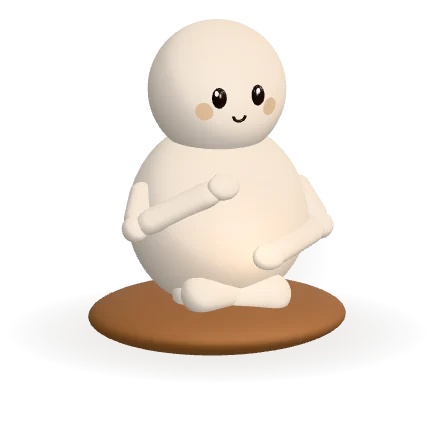
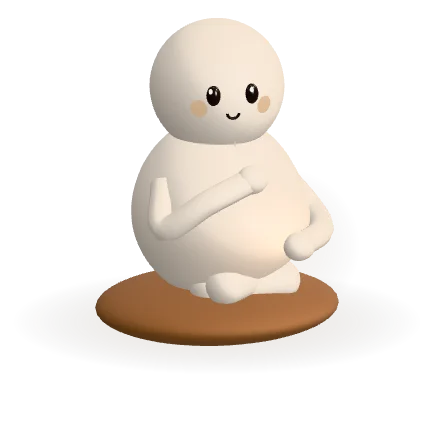
design-v2 hero: site-critic round 1 fixes for "Breathe with me"
Figure: seen about 40 degrees off its front (head turned to the viewer) so the belly's
push shows in the outline; belly travel about doubled; arms are single smooth tubes
through shoulder, elbow, round the belly and hand (no knobbly joints, no forearm
sinking); arms, hands and legs draw after the glow so the belly hand stays crisp.
Reduced motion keeps the shape still but lets the light breathe while the pacer runs.

Pacer v3: the first inhale rises from the idle level (no dip on Begin); a 5.5 s step
counts 5, 4, 3, 2, 1.

Layout: one grid for the headline halves, the figure and the sell. The pacer is one
unit (pill, track, patterns); the pill is an outline so the App Store button is the
one gold fill; the description line is gone. 1200 px and up put the sell under "INTO
THE BODY", phones keep the pacer together and let "INTO THE BODY" lead into the sell.
web-3d check now 0 FAIL at 1440 and 390. DESIGN.md updated. Not pushed.

diff --git a/site/js/figure-v1.js b/site/js/figure-v1.js
@@ -1,5 +1,6 @@
 /* "Breathe with me": an original round figure sitting cross-legged on a cushion, built from primitives.
-   breath-figure-v1.js drives it from the hero pacer: update(dt, fill, still, phase).
+   breath-figure-v1.js drives it from the hero pacer: update(dt, fill, still, phase, light). `light` (default: fill)
+   sets only the glow, so under reduced motion the shape can hold still while the light still follows the breath.
    One hand rests on the chest and stays nearly still, the other rides the belly: the coaching cue for breathing
    low (diaphragm), not high (chest). The belly pushes forward on the inhale and draws in past rest on the exhale;
    a round orb glows from inside it as the lungs fill, fades back to bone on the way out, then darkens a little when empty.
@@ -10,7 +11,7 @@ import { mergeVertices } from 'three/addons/utils/BufferGeometryUtils.js';
 
 const Z = new THREE.Vector3(0, 0, 1), UP = new THREE.Vector3(0, 1, 0);
 const HEAD_R = 0.56, BELLY_Y = 1.0, RAD = [0.72, 0.72 * 1.06, 0.72 * 0.92];
-const OUT = -0.09, IN = 0.2; // belly travel: drawn in at the bottom of the exhale .. full at the top of the inhale
+const OUT = -0.12, IN = 0.32; // belly travel: drawn in at the bottom of the exhale .. full at the top of the inhale
 const ORB = new THREE.Vector3(0, -0.2, 1).normalize(); // where the belly glows from: the front, a little below centre
 const smooth = (a, b, x) => { const t = Math.min(1, Math.max(0, (x - a) / (b - a))); return t * t * (3 - 2 * t); };
 
@@ -29,47 +30,49 @@ export function buildBreather(colors = {}) {
   root.add(body);
   const belly = makeBelly(c.body, c.inhale, c.glow);
   body.add(belly.mesh);
-  // The orb's halo: soft light that spills past the belly's outline on the inhale. Drawn last and on top (no depth
-  // test): with depth on, the curve of the belly hid part of the flat sprite and left a dark hole in the glow. Light
-  // washing over the hands is what real light would do anyway.
+  // The orb's halo: soft light that spills past the belly's outline on the inhale. Drawn without depth test (with it,
+  // the belly's curve hid part of the flat sprite and left a dark hole in the glow), then the arms, hands and legs are
+  // drawn after it (limbs below), so the hand on the belly stays a clear shape in front of the light.
   const halo = new THREE.Sprite(new THREE.SpriteMaterial({ map: radialTexture(c.glow), transparent: true, depthWrite: false,
     depthTest: false, blending: THREE.AdditiveBlending, opacity: 0, toneMapped: false }));
   halo.scale.setScalar(1.3);
   halo.renderOrder = 10;
   body.add(halo);
+  const limbs = skin.clone(); // same look, drawn in the late pass after the halo (renderOrder 11)
+  limbs.transparent = true;
+  const late = (mesh) => { mesh.renderOrder = 11; return mesh; };
   for (const side of [-1, 1]) { // crossed legs, one resting on the other
-    const leg = new THREE.Mesh(new THREE.CapsuleGeometry(0.17, 0.62, 8, 16), skin);
+    const leg = late(new THREE.Mesh(new THREE.CapsuleGeometry(0.17, 0.62, 8, 16), limbs));
     leg.rotation.set(0, side * 0.34, Math.PI / 2);
     leg.position.set(0, side < 0 ? 0.42 : 0.47, 0.36);
     body.add(leg);
   }
 
-  // The figure's left hand on the chest, right hand on the belly. Each arm bends at an elbow that rests on the
-  // body's side, so it wraps around the round body instead of cutting through it. Re-aimed every frame.
+  // The figure's left hand on the chest, right hand on the belly. Each arm is one smooth tube through shoulder, elbow
+  // (on the body's side), a point halfway round the belly, and the hand, rebuilt every frame so it follows the belly
+  // as it grows instead of sinking into it. No separate segments, so no knobbly joints. Open ends hide inside the
+  // body and inside the round hand.
   const hands = [
-    { shoulder: new THREE.Vector3(-0.62, 1.3, 0.02), elbowDir: new THREE.Vector3(-0.95, 0, 0.32).normalize(), dir: new THREE.Vector3(-0.22, 0.5, 0.84).normalize() },
-    { shoulder: new THREE.Vector3(0.62, 1.26, 0.02), elbowDir: new THREE.Vector3(0.95, -0.12, 0.3).normalize(), dir: new THREE.Vector3(0.2, -0.22, 0.95).normalize() },
+    { shoulder: new THREE.Vector3(-0.6, 1.3, 0.02), elbowDir: new THREE.Vector3(-0.95, 0, 0.32).normalize(), dir: new THREE.Vector3(-0.22, 0.5, 0.84).normalize() },
+    { shoulder: new THREE.Vector3(0.6, 1.26, 0.02), elbowDir: new THREE.Vector3(0.95, -0.12, 0.3).normalize(), dir: new THREE.Vector3(0.2, -0.22, 0.95).normalize() },
   ].map((h) => {
-    h.upper = new THREE.Mesh(new THREE.CapsuleGeometry(0.11, 0.3, 8, 16), skin);
-    h.fore = new THREE.Mesh(new THREE.CapsuleGeometry(0.105, 0.3, 8, 16), skin);
-    h.elbow = new THREE.Mesh(new THREE.SphereGeometry(0.11, 16, 12), skin);
-    h.palm = new THREE.Mesh(new THREE.SphereGeometry(0.13, 20, 14), skin);
-    h.palm.scale.set(1.05, 0.85, 0.62); // flat against the body
-    body.add(h.upper, h.fore, h.elbow, h.palm);
+    h.midDir = h.elbowDir.clone().add(h.dir).normalize();
+    h.elbow = new THREE.Vector3();
+    h.mid = new THREE.Vector3();
+    h.palm = late(new THREE.Mesh(new THREE.SphereGeometry(0.13, 20, 14), limbs));
+    h.palm.scale.set(1.12, 0.94, 0.86); // a soft mitten resting on the body
+    h.curve = new THREE.CatmullRomCurve3([h.shoulder, h.elbow, h.mid, h.palm.position], false, 'centripetal');
+    h.arm = late(new THREE.Mesh(new THREE.BufferGeometry(), limbs));
+    body.add(h.arm, h.palm);
     return h;
   });
-  const aim = new THREE.Vector3();
-  function limb(mesh, from, to, height) { // stretch a capsule (total height `height`) from one point to another
-    mesh.position.copy(from).add(to).multiplyScalar(0.5);
-    mesh.quaternion.setFromUnitVectors(UP, aim.copy(to).sub(from).normalize());
-    mesh.scale.y = from.distanceTo(to) / height;
-  }
   function placeHands(d) {
     for (const h of hands) {
-      belly.surface(h.elbowDir, d, h.elbow.position).addScaledVector(h.elbowDir, 0.1);
-      belly.surface(h.dir, d, h.palm.position).addScaledVector(h.dir, 0.085);
-      limb(h.upper, h.shoulder, h.elbow.position, 0.52);
-      limb(h.fore, h.elbow.position, h.palm.position, 0.51);
+      belly.surface(h.elbowDir, d, h.elbow).addScaledVector(h.elbowDir, 0.1);
+      belly.surface(h.midDir, d, h.mid).addScaledVector(h.midDir, 0.1);
+      belly.surface(h.dir, d, h.palm.position).addScaledVector(h.dir, 0.09);
+      h.arm.geometry.dispose();
+      h.arm.geometry = new THREE.TubeGeometry(h.curve, 24, 0.105, 10, false);
     }
   }
 
@@ -106,11 +109,11 @@ export function buildBreather(colors = {}) {
     root, body, head,
     look(x, y) { s.tx = x; s.ty = y; },
     press() { s.press = 0; },
-    update(dt, fill, still, phase) {
+    update(dt, fill, still, phase, light = fill) {
       const d = OUT + (IN - OUT) * fill;
       // Inhale: the orb lights up from about a third full. Exhale: it fades back to bone, then the belly darkens a
       // little as the lungs empty, so the bottom of the breath (and a box hold down there) reads as empty.
-      const lit = smooth(0.3, 1, fill), empty = 1 - smooth(0, 0.3, fill);
+      const lit = smooth(0.3, 1, light), empty = 1 - smooth(0, 0.3, light);
       belly.breathe(d, lit, empty);
       placeHands(d);
       belly.surface(ORB, d, halo.position).addScaledVector(ORB, 0.05);

diff --git a/site/index.html b/site/index.html
@@ -196,14 +196,15 @@
     </div>
     <p class="pc-desc">Resonance Breathing: <span class="data">5.5 in, 5.5 out</span>.</p>
     <p class="vh" aria-live="polite" aria-atomic="true"><span class="pc-live"></span></p>
-  </div>
-  <div class="hero-foot">
-    <p class="hero-lede">35 breathing techniques and guided sessions, most in Collin's voice, matched to how you feel.</p>
-    <a href="https://apps.apple.com/app/apple-store/id6760352779?pt=128638571&amp;ct=site-hero&amp;mt=8" data-ct="hero" class="btn">
-        <svg viewBox="0 0 24 24" fill="currentColor" aria-hidden="true"><path d="M18.71 19.5c-.83 1.24-1.71 2.45-3.05 2.47-1.34.03-1.77-.79-3.29-.79-1.53 0-2 .77-3.27.82-1.31.05-2.3-1.32-3.14-2.53C4.25 17 2.94 12.45 4.7 9.39c.87-1.52 2.43-2.48 4.12-2.51 1.28-.02 2.5.87 3.29.87.78 0 2.26-1.07 3.8-.91.65.03 2.47.26 3.64 1.98-.09.06-2.17 1.28-2.15 3.81.03 3.02 2.65 4.03 2.68 4.04-.03.07-.42 1.44-1.38 2.83M13 3.5c.73-.83 1.94-1.46 2.94-1.5.13 1.17-.34 2.35-1.04 3.19-.69.85-1.83 1.51-2.95 1.42-.15-1.15.41-2.35 1.05-3.11z"/></svg>
-        Download on the App Store
-      </a>
-    <p class="hero-meta">Free to download. Premium $29.99/year. <span class="hero-rate"><span class="stars"><svg viewBox="0 0 88 16" aria-hidden="true" focusable="false"><path transform="translate(0 0)" d="M8 .8l2.2 4.6 5 .7-3.6 3.5.9 5-4.5-2.4-4.5 2.4.9-5L.8 6.1l5-.7z" fill="currentColor"/><path transform="translate(18 0)" d="M8 .8l2.2 4.6 5 .7-3.6 3.5.9 5-4.5-2.4-4.5 2.4.9-5L.8 6.1l5-.7z" fill="currentColor"/><path transform="translate(36 0)" d="M8 .8l2.2 4.6 5 .7-3.6 3.5.9 5-4.5-2.4-4.5 2.4.9-5L.8 6.1l5-.7z" fill="currentColor"/><path transform="translate(54 0)" d="M8 .8l2.2 4.6 5 .7-3.6 3.5.9 5-4.5-2.4-4.5 2.4.9-5L.8 6.1l5-.7z" fill="currentColor"/><path transform="translate(72 0)" d="M8 .8l2.2 4.6 5 .7-3.6 3.5.9 5-4.5-2.4-4.5 2.4.9-5L.8 6.1l5-.7z" fill="currentColor"/></svg></span> 5.0 from 11 ratings on the App Store</span></p>
+    <!-- the sell, after the pacer: under "INTO THE BODY" on wide screens, after the pattern row on phones -->
+    <div class="hero-foot">
+      <p class="hero-lede">35 breathing techniques and guided sessions, most in Collin's voice, matched to how you feel.</p>
+      <a href="https://apps.apple.com/app/apple-store/id6760352779?pt=128638571&amp;ct=site-hero&amp;mt=8" data-ct="hero" class="btn">
+          <svg viewBox="0 0 24 24" fill="currentColor" aria-hidden="true"><path d="M18.71 19.5c-.83 1.24-1.71 2.45-3.05 2.47-1.34.03-1.77-.79-3.29-.79-1.53 0-2 .77-3.27.82-1.31.05-2.3-1.32-3.14-2.53C4.25 17 2.94 12.45 4.7 9.39c.87-1.52 2.43-2.48 4.12-2.51 1.28-.02 2.5.87 3.29.87.78 0 2.26-1.07 3.8-.91.65.03 2.47.26 3.64 1.98-.09.06-2.17 1.28-2.15 3.81.03 3.02 2.65 4.03 2.68 4.04-.03.07-.42 1.44-1.38 2.83M13 3.5c.73-.83 1.94-1.46 2.94-1.5.13 1.17-.34 2.35-1.04 3.19-.69.85-1.83 1.51-2.95 1.42-.15-1.15.41-2.35 1.05-3.11z"/></svg>
+          Download on the App Store
+        </a>
+      <p class="hero-meta">Free to download. Premium $29.99/year. <span class="hero-rate"><span class="stars"><svg viewBox="0 0 88 16" aria-hidden="true" focusable="false"><path transform="translate(0 0)" d="M8 .8l2.2 4.6 5 .7-3.6 3.5.9 5-4.5-2.4-4.5 2.4.9-5L.8 6.1l5-.7z" fill="currentColor"/><path transform="translate(18 0)" d="M8 .8l2.2 4.6 5 .7-3.6 3.5.9 5-4.5-2.4-4.5 2.4.9-5L.8 6.1l5-.7z" fill="currentColor"/><path transform="translate(36 0)" d="M8 .8l2.2 4.6 5 .7-3.6 3.5.9 5-4.5-2.4-4.5 2.4.9-5L.8 6.1l5-.7z" fill="currentColor"/><path transform="translate(54 0)" d="M8 .8l2.2 4.6 5 .7-3.6 3.5.9 5-4.5-2.4-4.5 2.4.9-5L.8 6.1l5-.7z" fill="currentColor"/><path transform="translate(72 0)" d="M8 .8l2.2 4.6 5 .7-3.6 3.5.9 5-4.5-2.4-4.5 2.4.9-5L.8 6.1l5-.7z" fill="currentColor"/></svg></span> 5.0 from 11 ratings on the App Store</span></p>
+    </div>
   </div>
 </section>
 

diff --git a/site/js/pacer-v3.js b/site/js/pacer-v3.js
@@ -25,8 +25,10 @@
   function RM() { return mq.matches; }
   function ease(x) { return 0.5 - 0.5 * Math.cos(Math.PI * x); }
   function total(ph) { var s = 0; for (var i = 0; i < ph.length; i++) s += ph[i][1]; return s; }
-  function at(ph, t) {
-    var T = total(ph), x = ((t % T) + T) % T, level = 0;
+  // start: the lungs' level when the visitor pressed Begin. The first inhale rises from there instead of dropping to
+  // empty first (the hero figure visibly deflated on Begin before v3).
+  function at(ph, t, start) {
+    var T = total(ph), x = ((t % T) + T) % T, level = start && t < T ? start : 0;
     for (var i = 0; i < ph.length; i++) {
       var k = ph[i][0], d = ph[i][1];
       var to = k === 'in' ? (ph[i][2] != null ? ph[i][2] : 1) : k === 'out' ? (ph[i][2] != null ? ph[i][2] : 0) : level;
@@ -57,7 +59,7 @@
     var beginWord = root.getAttribute('data-begin-word') || 'Begin', stopHint = root.getAttribute('data-stop-hint') || ' Tap the center to stop.';
     if (!go) return null;
     var cur = root.getAttribute('data-start') || 'box', running = false, t0 = 0, cycles = 0, lastPhase = -1, lastCount = -1;
-    var raf = 0, visible = true, idleOn = false, idleT0 = 0, shown = 0.25, blendFrom = null, blendT0 = 0, listeners = [];
+    var raf = 0, visible = true, idleOn = false, idleT0 = 0, shown = 0.25, blendFrom = null, blendT0 = 0, listeners = [], startLevel = 0;
     var soundOn = false, oscL = null, oscR = null, gain = null, lastGainAt = 0;
 
     function draw(fillAt, still, phase) {
@@ -86,8 +88,8 @@
       if (running) {
         var ph = PATTERNS[cur].phases;
         t = (now - t0) / 1000;
-        var a = at(ph, t);
-        var f = draw(blend(function (lag) { return at(ph, Math.max(0, t - lag)).fill; }, now), RM(), ph[a.i][0]);
+        var a = at(ph, t, startLevel);
+        var f = draw(blend(function (lag) { return at(ph, Math.max(0, t - lag), startLevel).fill; }, now), RM(), ph[a.i][0]);
         if (a.cycle + 1 !== cycles) {
           if (cycles > 0) document.dispatchEvent(new CustomEvent('pacer:cycle', { detail: { cycles: cycles, root: root } }));
           cycles = a.cycle + 1;
@@ -95,7 +97,7 @@
         }
         if (a.i !== lastPhase) { lastPhase = a.i; word.textContent = a.word; if (live) live.textContent = a.word; stepTo(a.i); }
         if (steps[a.i]) steps[a.i].style.setProperty('--p', (1 - a.left / ph[a.i][1]).toFixed(3));
-        var c = Math.ceil(a.left - 0.0001);
+        var c = Math.max(1, Math.min(Math.ceil(a.left - 0.0001), Math.floor(ph[a.i][1]))); // a 5.5 s step counts 5, 4, 3, 2, 1
         if (c !== lastCount) { lastCount = c; count.textContent = String(c); }
         soundFollow(f, now);
         raf = requestAnimationFrame(frame);
@@ -142,7 +144,7 @@
     function start() {
       for (var i = 0; i < all.length; i++) if (all[i] !== api && all[i].isRunning()) all[i].stop(true);
       running = true; cycles = 0; lastPhase = -1; lastCount = -1;
-      t0 = performance.now(); blendFrom = shown; blendT0 = t0;
+      t0 = performance.now(); startLevel = Math.min(shown, 0.7); blendFrom = null; blendT0 = t0;
       root.classList.add('is-running');
       go.setAttribute('aria-pressed', 'true'); go.setAttribute('aria-label', 'Stop the breath pacer');
       if (soundOn) soundStart();

diff --git a/site/js/breath-figure-v1.js b/site/js/breath-figure-v1.js
@@ -12,7 +12,10 @@ const canvas = document.querySelector('.hero .hero-art canvas');
 const pacerRoot = document.getElementById('try-a-breath');
 const reduce = matchMedia('(prefers-reduced-motion: reduce)');
 const capture = new URLSearchParams(location.search).has('capture-poster'); // web-3d verify-webgl.mjs poster
-const VIEW = { pos: [-1.6, 2.2, 4.6], target: [0, 0.98, 0], half: 1.75 }; // front left: it turns toward the copy
+// Seen about 40 degrees off its front, so the belly's forward push shows in the outline (site-critic round 1: front-on
+// it read as a lamp, not a breath). The head rests turned toward the viewer (HEAD_YAW) and follows the pointer from there.
+const VIEW = { pos: [-3.1, 2.2, 3.7], target: [0, 0.92, 0], half: 1.8 }; // room under the cushion for the cue pill
+const HEAD_YAW = -0.45;
 
 function css(name) { return getComputedStyle(canvas).getPropertyValue(name).trim(); }
 
@@ -55,13 +58,14 @@ function start() {
     raf = 0;
     const now = performance.now(), dt = Math.min((now - last) / 1000, 0.05), still = reduce.matches || capture;
     last = now;
-    if (!still || dirty) {
+    const glowOnly = still && !capture && st.phase !== null; // reduced motion while running: only the light breathes
+    if (!still || dirty || glowOnly) {
       dirty = false;
       fit();
       st.yaw += ((still ? 0 : st.tyaw) - st.yaw) * Math.min(1, dt * 4); // slower than the eyes: the eyes lead
       st.pitch += ((still ? 0 : st.tpitch) - st.pitch) * Math.min(1, dt * 4);
-      fig.head.rotation.set(st.pitch, st.yaw, 0);
-      fig.update(dt, still ? 0.6 : st.fill, still, still ? null : st.phase);
+      fig.head.rotation.set(st.pitch, HEAD_YAW + st.yaw, 0);
+      fig.update(dt, still ? 0.6 : st.fill, still, still && !glowOnly ? null : st.phase, still && !glowOnly ? 0.6 : st.fill);
       renderer.render(scene, camera);
       if (!live) {
         live = true;
@@ -70,7 +74,7 @@ function start() {
         if (capture) canvas.dataset.poster = canvas.toDataURL('image/webp', 0.86);
       }
     }
-    if (visible && !document.hidden && !still) raf = requestAnimationFrame(tick);
+    if (visible && !document.hidden && (!still || glowOnly)) raf = requestAnimationFrame(tick);
   }
   function request() { if (!raf) { last = performance.now() - 16; raf = requestAnimationFrame(tick); } }
   function redraw() { dirty = true; request(); }
@@ -78,7 +82,11 @@ function start() {
   const link = () => {
     const p = pacerRoot && pacerRoot.groundPacer;
     if (!p) return false;
-    p.onFill((fill, still, phase) => { st.fill = fill; st.phase = phase; });
+    p.onFill((fill, still, phase) => {
+      if (st.phase !== null && phase === null) dirty = true; // stopped: draw the resting light once more
+      st.fill = fill; st.phase = phase;
+      if (reduce.matches) request(); // the reduced-motion loop sleeps between runs
+    });
     const ray = new THREE.Raycaster(), ndc = new THREE.Vector2();
     canvas.parentElement.addEventListener('pointerdown', (e) => { // a tap on the figure itself starts the breath
       const b = canvas.getBoundingClientRect();

diff --git a/site/assets/css/home-v3.css b/site/assets/css/home-v3.css
@@ -400,3 +400,37 @@ p{text-wrap:pretty}
 /* Short phones (375x667): the track already shows the timings, so the description line goes and the dial shrinks a
    little, keeping "Breathe with me" and the App Store button on the first screen. */
 @media (max-width:980px) and (max-height:720px){:root{--dial:min(74vw,32svh,420px)}.hero .pc-desc{display:none}}
+/* Site-critic round 1 (2026-10-15). The pacer is one unit (figure, pill, track, pattern row) with one gold fill on the
+   screen (the App Store button); the description line is gone, the track already says it. The headline halves, the
+   dial and the sell share one grid, so no headline box sits under the canvas: wide screens put the sell under
+   "INTO THE BODY", phones keep figure, pill, track and patterns together and let "INTO THE BODY" introduce the sell. */
+.hero .dial .pc-go{background:transparent;color:var(--text);border-color:var(--gold)}
+.hero .dial .pc-go:hover{background:rgba(196,147,90,.14)}
+.hero .is-running .dial .pc-go::before{content:"";order:3;width:9px;height:9px;margin-left:.15rem;border:1.5px solid currentColor;border-radius:2px;opacity:.7}
+.hero .pc-desc{display:none}
+.hero .stage{display:grid;align-self:center} /* sized to its content and centred in the hero (fr rows would stretch it) */
+.hero .row,.hero h1{display:contents}
+.hero h1 span{max-width:none}
+@media (min-width:981px){
+.hero .stage{grid-template-columns:minmax(0,1fr) var(--dial) minmax(0,1fr);grid-template-rows:1fr auto 1fr auto auto;column-gap:16px;row-gap:0;align-items:center}
+.h-a{grid-column:1;grid-row:1/4}
+.hero .dial{position:relative;left:auto;top:auto;transform:none;grid-column:2;grid-row:1/4}
+.h-b{grid-column:3;grid-row:2}
+.hero .hero-foot{grid-column:3;grid-row:3;align-self:start;align-items:flex-end;text-align:right;padding-top:22px}
+.hero .pc-track{grid-column:2;grid-row:4;justify-self:center;margin-top:16px}
+.hero .controls{grid-column:1/-1;grid-row:5;margin-top:12px}
+}
+@media (min-width:981px) and (max-width:1199px){
+.hero .stage{grid-template-rows:auto auto auto auto auto auto}
+.h-a,.h-b{grid-row:1/4}
+.hero .hero-foot{grid-column:1/-1;grid-row:6;align-self:auto;align-items:center;text-align:center;padding-top:20px}
+}
+@media (max-width:980px){
+.hero .stage{grid-template-columns:minmax(0,1fr);justify-items:center;row-gap:12px}
+.h-a{grid-row:1;justify-self:stretch}
+.hero .dial{grid-row:2}
+.hero .pc-track{grid-row:3}
+.hero .controls{grid-row:4}
+.h-b{grid-row:5;justify-self:stretch;text-align:right}
+.hero .hero-foot{grid-row:6;padding-top:4px}
+}

diff --git a/DESIGN.md b/DESIGN.md
@@ -61,15 +61,23 @@ because GroundApp is his practice (ban list: gold only for Collin).
 The breath pacer (`site/js/pacer-v3.js`), one timing engine used twice:
 - Hero, "Breathe with me" (2026-10-15): the page's ONE 3D moment is a round figure on a cushion (`site/js/figure-v1.js`,
   mounted by `breath-figure-v1.js`, three.js 0.186.1 from the pinned import map; it replaced the web-3d `breath`
-  shader rings, whose files are kept unused). The pacer's fill drives the belly (forward and warm on the inhale, drawn
-  in past rest on the exhale), a soft orb glows from inside the belly as it fills (gentle emissive light plus a faint halo,
-  Amber), fades back to bone on the way out and darkens a little when empty, one hand on the chest stays nearly still
-  while the hand on the belly rides it, and the eyes close softly on a hold. Eyes follow the pointer; a tap on the figure starts the pacer. Patterns: Resonance
-  (5.5 in, 5.5 out, the default; the app's name for 5.5/5.5, since the app's "Coherent Breathing" is 6/6) and Box
-  (4 in, 4 hold, 4 out, 4 hold). The cue pill under the cushion shows the phase word and whole seconds; the step
-  track under it lists every step with the current one filling. All of it is HTML except the figure. Posters
-  `assets/posters/hero-figure-{1440,390}.webp` (12 KB / 11 KB). Reduced motion: one still frame (mid-inhale), words,
-  count and track still run. Kit: `~/.claude/skills/studio-site-design/kits/breath-figure/`.
+  shader rings, whose files are kept unused). The pacer's fill drives the belly: it pushes forward on the inhale and
+  draws in past rest on the exhale; a soft orb glows from inside it as it fills (gentle emissive light plus a faint
+  Amber halo), fades back to bone on the way out and darkens a little when empty. One hand rests on the chest and
+  stays nearly still while the other rides the belly; the eyes close softly on a hold. Seen about 40 degrees off its
+  front so the push shows in the outline, head turned to the viewer at rest. Arms are single smooth tubes (shoulder,
+  elbow, round the belly, hand) rebuilt each frame; arms, hands and legs draw after the glow so the belly hand stays
+  crisp. Eyes follow the pointer; a tap on the figure starts the pacer, and the first inhale rises from the idle level.
+  Patterns: Resonance (5.5 in, 5.5 out, the default; the app's name for 5.5/5.5, since the app's "Coherent
+  Breathing" is 6/6) and Box (4 in, 4 hold, 4 out, 4 hold). The cue pill under the cushion (an outline, so the App
+  Store button is the hero's one gold fill) shows the phase word and whole seconds (a 5.5 s step counts 5, 4, 3, 2,
+  1) with a small stop square while running; the step track under it lists every step with the current one filling;
+  the pattern row sits right under that. No description line (the track says it). One grid holds the headline halves,
+  the figure and the sell: 1200 px and up put the lede, App Store button and rating under "INTO THE BODY"; 981 to
+  1199 centre them under the pacer; phones run headline, figure, pill, track, patterns, "INTO THE BODY", then the
+  sell. All of it is HTML except the figure. Posters `assets/posters/hero-figure-{1440,390}.webp` (13 KB / 12 KB).
+  Reduced motion: the figure's shape is one still frame; while the pacer runs only its light breathes and the eyes
+  close on holds; words, count and track still run. Kit: `~/.claude/skills/studio-site-design/kits/breath-figure/`.
 - Feelings wheel: after the third tap the segments fold away and the wheel becomes a pacer in place (Begin and the
   count in its center), loaded with the breath the app starts with for that feeling; the plan line sits beside it
   on desktop and right under it on phones. Mapping from GroundApp 1.1.1's rule-based check-in plan
@@ -105,6 +113,8 @@ header "Download" pill hides while the bar shows.
 
 ## Ban exceptions
 - None for type. Source Serif 4 is not on the AI-default list; the mono face is limited to data (see Type).
+- stock-copy: two verbatim customer quotes (App Store review by okh78, class testimonial by Tyler B.); the ban list
+  exempts verbatim quotes.
 
 ## Grid
 Three edges at 1440: 56 (page margin), 156 (content column) and 732 (second column, col 7 of 12). Section heads sit
@@ -120,14 +130,12 @@ on 156, their reading text or lists on 732. Gold is only for the rings, Begin an
 ## Checker WARN/FAIL left on purpose (check-tells.py)
 - italic-accent-word + heading-em-css: `terms.html`, `privacy.html` only. Those pages are on the do-not-touch list for
   this preview; fix them in a follow-up once Collin approves (their privacy copy is legal text).
-- stock-copy ("game changer"): two verbatim customer quotes (App Store review by okh78, class testimonial by Tyler B.).
-  Verbatim quotes are exempt.
+- stock-copy ("game changer"): FAIL left on purpose. Two verbatim customer quotes (see Ban exceptions); check-tells
+  cannot excuse a FAIL rule, and rewording a customer's words would misquote them.
 - Inspector `mono` on atlas pages: practice durations in the "other practices" list are data (see Type). The atlas pages
   were not redesigned; their other inspector findings predate this preview.
 - glassmorphism: blog, terms and privacy pages (untouched here). middot-meta: admin dashboard (untouched).
 - Inspector `few-pictures`: 7 real raster images plus the figure; the inspector skips lazy images and data-ui phones.
   `no-footage`: owned Traverse footage exists; a loop is Collin's call (see Imagery). The figure is the moving picture.
-- web-3d: `verify-webgl.mjs check` (served without the analytics beacon) PASS at 390; at 1440 one FAIL on purpose,
-  "canvas covers h1": the h1 box spans the row and its centre sample lands in the empty gap between the two halves,
-  where the figure stands. The words themselves never touch the canvas (measured 2026-10-15 at 1000 to 1920 px wide,
-  closest 7 px at 1024). The old rings passed only because the Begin circle sat on that point. `check-3d-budget.py` PASS.
+- web-3d: `verify-webgl.mjs check` PASS at 1440 and 390 (served without the analytics beacon; 0 FAIL since the hero
+  grid of 2026-10-15 gave the headline halves their own columns), `check-3d-budget.py` PASS.
